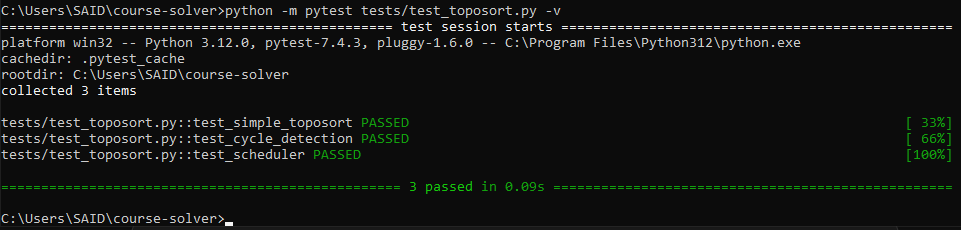
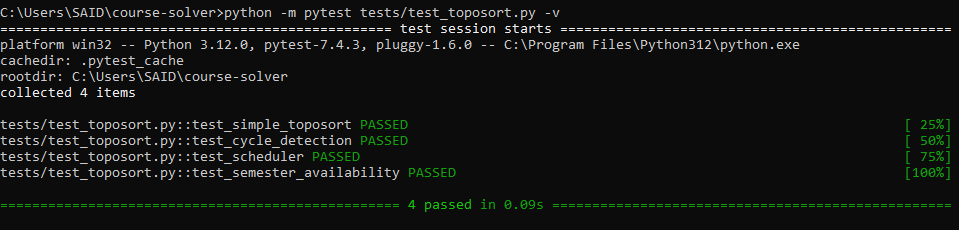
Day 2: Added semester availability constraints with 4 passing tests

Changed region(s): [[0.0, 0.0304, 0.9979, 0.4261], [0.0, 0.487, 0.9979, 0.9739], [0.9374, 0.487, 0.9979, 0.7]]

diff --git a/solver/scheduler.py b/solver/scheduler.py
@@ -8,34 +8,58 @@ class SemesterScheduler:
         self.max_credits = max_credits
         self.graph = CourseGraph(courses)
     
+    
+   
     def schedule_semesters(self) -> List[List[str]]:
-       
+        """Schedules courses into semesters respecting credit limits AND semester availability."""
         course_order = self.graph.topological_sort()
         completed = set()
         semesters = []
+        empty_semester_count = 0  # Track consecutive empty semesters
+        
+        semester_counter = 0
         
         while course_order:
+            is_fall = semester_counter % 2 == 0
             current_semester = []
             current_credits = 0
             
+            # Try to schedule courses for this semester
             for course in list(course_order):
                 info = self.courses[course]
                 
                 # Check if all prereqs are completed
                 if all(prereq in completed for prereq in info.get("prereqs", [])):
-                    # Check credit limit
-                    if current_credits + info["credits"] <= self.max_credits:
-                        current_semester.append(course)
-                        current_credits += info["credits"]
-                        course_order.remove(course)
+                    # Check if course is offered this semester
+                    offered = info.get("offered", ["fall", "spring"])
+                    current_semester_type = "fall" if is_fall else "spring"
+                    
+                    if current_semester_type in offered:
+                        # Check credit limit
+                        if current_credits + info["credits"] <= self.max_credits:
+                            current_semester.append(course)
+                            current_credits += info["credits"]
+                            course_order.remove(course)
             
             if not current_semester:
-                raise ValueError("Cannot schedule remaining courses within credit limits")
+                # No courses scheduled this semester
+                empty_semester_count += 1
+                if empty_semester_count >= 4:  # Give up after 4 empty semesters
+                    raise ValueError(f"Cannot schedule remaining courses: {course_order}")
+            else:
+                empty_semester_count = 0  # Reset when we make progress
             
+            # Add semester (even if empty, we track the slot)
             semesters.append(current_semester)
             completed.update(current_semester)
+            semester_counter += 1
+            
+            # Safety break
+            if semester_counter > len(self.courses) * 3:
+                raise ValueError("Too many semesters created")
         
-        return semesters
+        # Filter out empty semesters
+        return [s for s in semesters if s]
 
 def validate_schedule(courses: Dict, schedule: List[List[str]]) -> Tuple[bool, str]:
     

diff --git a/main.py b/main.py
@@ -37,12 +37,15 @@ def main():
         print(f"✓ Schedule validation: {message}\n")
         
         # Display semester plan
+        semester_types = ["Fall", "Spring"] * (len(schedule) // 2 + 1)
         for i, semester in enumerate(schedule, 1):
             total_credits = sum(courses[c]["credits"] for c in semester)
-            print(f"--- Semester {i} ({total_credits} credits) ---")
+            sem_type = semester_types[i-1] if i-1 < len(semester_types) else "Semester"
+            print(f"--- {sem_type} {i} ({total_credits} credits) ---")
             for course in semester:
                 info = courses[course]
-                print(f"  {course}: {info['name']} ({info['credits']} credits)")
+                offered = ", ".join(info.get("offered", ["fall", "spring"]))
+                print(f"  {course}: {info['name']} ({info['credits']} credits) [Offered: {offered}]")
             print()
     
     except ValueError as e:

diff --git a/tests/test_toposort.py b/tests/test_toposort.py
@@ -38,6 +38,20 @@ def test_scheduler():
     assert len(schedule) >= 3
     is_valid, msg = validate_schedule(courses, schedule)
     assert is_valid, msg
+    
+def test_semester_availability():
+    courses = {
+        "A": {"prereqs": [], "credits": 12, "offered": ["fall"]},
+        "B": {"prereqs": ["A"], "credits": 12, "offered": ["spring"]},
+        "C": {"prereqs": ["B"], "credits": 12, "offered": ["fall"]},
+    }
+    scheduler = SemesterScheduler(courses, max_credits=24)
+    schedule = scheduler.schedule_semesters()
+    
+    # Should be 3 semesters: Fall, Spring, Fall
+    assert len(schedule) == 3
+    is_valid, msg = validate_schedule(courses, schedule)
+    assert is_valid, msg    
 
 if __name__ == "__main__":
     pytest.main([__file__])
